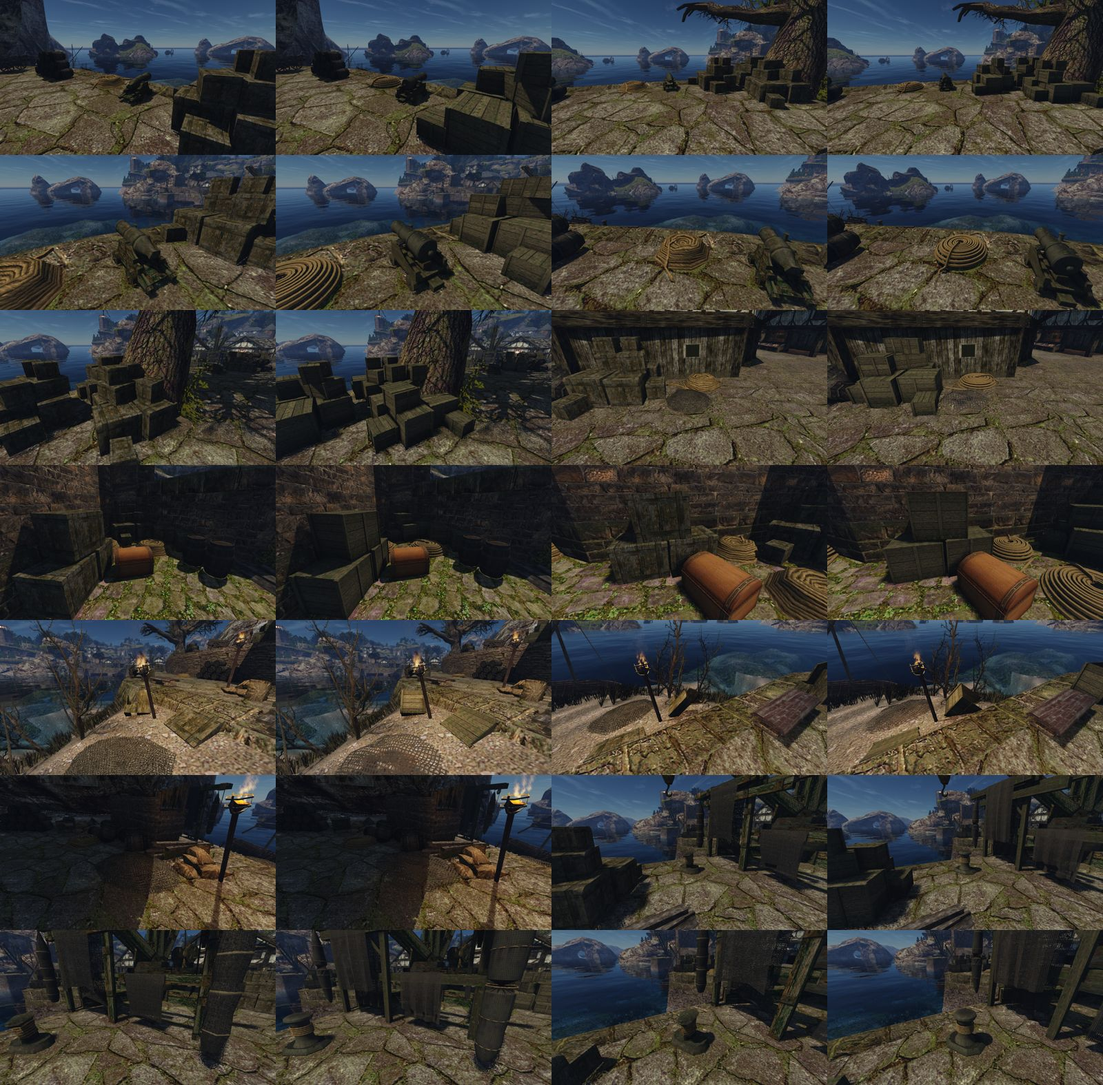
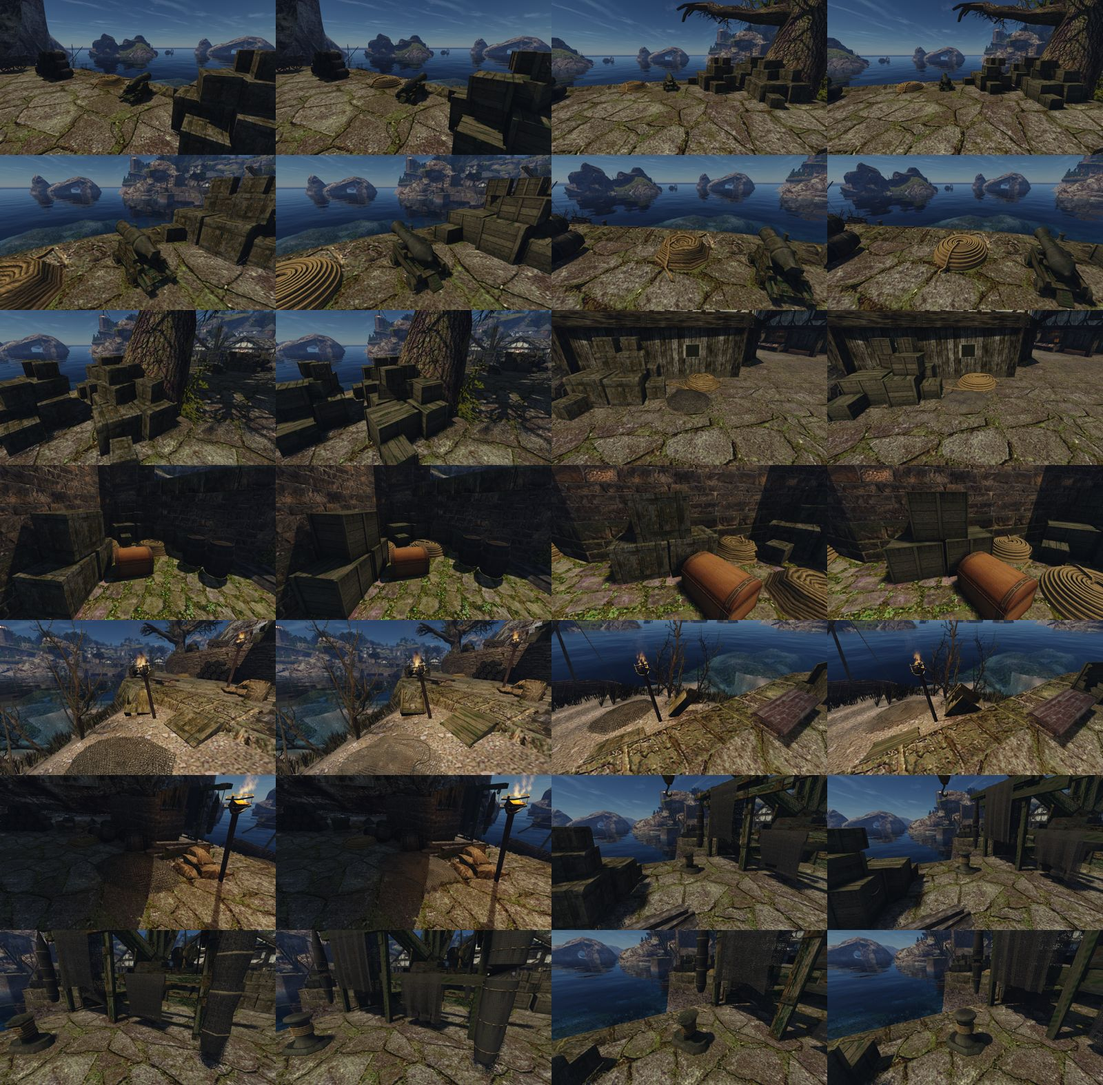
M3 round 3: pile on the original's places, broken crate breach in the end the cameras see, moss along the grain with wet streaks, 4 cm heap net, cannon from the underlay, rack cleats, r6 pairs

diff --git a/scripts/content/mesh3d/blender/crate_broken.py b/scripts/content/mesh3d/blender/crate_broken.py
@@ -10,9 +10,11 @@ config: {"id": "rig-crate-broken", "target": "data/content/mesh3d-rigging.json",
 The same crate as harbour_crate.py (reports/content/2026-10-crates-redesign, variant 2): corner posts
 and a rope handle on each short end, horizontal planks of uneven width with one upright batten on
 the long sides. Broken as the original (asset harbour-rigging, intent.md): no lid; with "side_v" (m, its width at the
-top) the -y long wall has a V breach centred at side_break[0], down to side_break[1] of the height: in the
-harbour that wall faces the player (vob 26082 lies tilted), the review of 2026-10-30 found a breach in the
-end unseen. The +x end may have a V breach too, notch[0] wide at the top, down to notch[1] of the height. Optional, off for the harbour set
+top) the "side_wall" long wall (-1: -y, 1: +y) has a V breach centred at side_break[0], down to side_break[1] of the height: in the
+harbour the +y wall faces the player (vob 26082 lies tilted), the review of 2026-10-30 found a breach in the
+end unseen. The "notch_end" end (1: +x, -1: -x) may have a V breach, notch[0] wide at the top, down to notch[1] of the
+height. In the harbour the camera of the fishers' corner sees the -x end (third review, 2026-10-30), so the
+V is there and the walls are whole. Optional, off for the harbour set
 after the first review (one wall broken, not three): the -y long side broken off above side_break[1] of
 the height for x > side_break[0]; the middle floor plank broken through over floor_hole (x from, x to,
 metres); the -y floor plank without its last floor_corner metres. "rope_ends": "none" drops the handle. Each
@@ -116,7 +118,8 @@ wall_top = H - 0.006   # no lid: the walls run up to the posts' tops less a hair
 
 # --- long sides: horizontal planks between the posts, an upright batten; -y broken at the top right ---
 sb_x, sb_h = cfg.get("side_break", [0.2, 0.74])
-side_v = cfg.get("side_v", 0.0)      # with a width: the -y wall has a V breach centred at x = sb_x instead
+side_v = cfg.get("side_v", 0.0)      # with a width: the side_wall wall has a V breach centred at x = sb_x instead
+side_wall = cfg.get("side_wall", -1)  # which long wall: -1 (-y) or 1 (+y)
 mid_x = -0.12 * L
 for s in (-1, 1):
     n_w = Y * s
@@ -128,7 +131,7 @@ for s in (-1, 1):
         centre = at(0, s * depth, z + w / 2)
         v0 = sb_h * wall_top
         half = side_v / 2 * (z + w / 2 - v0) / (wall_top - v0) * rng.uniform(0.85, 1.15) if side_v else 0.0
-        if s == -1 and half > 0.04:                    # a V breach in the -y wall, wider at the top
+        if s == side_wall and half > 0.04:             # a V breach in that wall, wider at the top
             plank_span(-x_end, sb_x - half, centre, along, Z, n_w, w, broken_end=1)
             plank_span(sb_x + half * rng.uniform(0.8, 1.2), x_end, centre, along, Z, n_w, w, broken_end=0)
         elif s == -1 and z > sb_h * wall_top - 0.02 and not side_v:     # broken off on the right
@@ -137,15 +140,16 @@ for s in (-1, 1):
         else:
             plank_span(-x_end, x_end, centre, along, Z, n_w, w)
         for xe in (-x_end + 0.035, x_end - 0.035):
-            if not (s == -1 and z > sb_h * wall_top - 0.02 and (xe > 0 or side_v)):
+            if not (s == (side_wall if side_v else -1) and z > sb_h * wall_top - 0.02 and (xe > 0 or side_v)):
                 nail(at(xe, s * y_side, z + w / 2), n_w, X)
         z += w + (gaps[k] if k < len(gaps) else 0)
-    top = sb_h * wall_top - 0.03 if (s == -1 and side_v) else wall_top - 0.02   # the batten stops under the breach
+    top = sb_h * wall_top - 0.03 if (s == side_wall and side_v) else wall_top - 0.02   # the batten stops under the breach
     P.wood(at(mid_x, s * (W / 2 - bat_t / 2), top / 2 + 0.01), turned(Z, n_w), X, n_w,
            top, bat_w * rng.uniform(0.9, 1.1), bat_t, BRACE, tile)
 
 # --- short ends: planks behind two corner posts; +x has a U breach in the middle, -x a rope handle ---
 nw_, nh_ = cfg.get("notch", [0.4, 0.34])
+notch_end = cfg.get("notch_end", 1)   # which end has the V: 1 (+x) or -1 (-x)
 for e in (-1, 1):
     n_w = X * e
     widths, gaps = _widths(rng, wall_top, gap, target)
@@ -158,7 +162,7 @@ for e in (-1, 1):
         centre = at(e * depth, 0, z + w / 2)
         v0 = nh_ * wall_top
         half = nw_ / 2 * (z + w / 2 - v0) / (wall_top - v0) * rng.uniform(0.85, 1.15)   # a V: wider at the top
-        if e == 1 and half > 0.04:
+        if e == notch_end and half > 0.04:
             plank_span(-span, off - half, centre, along, Z, n_w, w, broken_end=1)
             plank_span(off + half * rng.uniform(0.8, 1.2), span, centre, along, Z, n_w, w, broken_end=0)
         else:
@@ -169,7 +173,7 @@ for e in (-1, 1):
         P.wood(at(e * (L / 2 - post_t / 2), s * (W / 2 - pw / 2), wall_top / 2), turned(Z, n_w), Y, n_w, wall_top, pw, post_t, BRACE, tile)
         for f in (0.15, 0.5, 0.85):
             nail(at(e * (L / 2), s * (W / 2 - pw / 2), wall_top * f), n_w, Y)
-    if e == -1 and cfg.get("rope_ends", "one") != "none":
+    if e == -notch_end and cfg.get("rope_ends", "one") != "none":
         _rope(P, ROPE, lambda x, y, z: at(x, y, z), e, x_end, W, wall_top, cfg)
 
 # --- floor: planks along the length lying inside; the middle one broken through, a corner missing ---

diff --git a/scripts/content/mesh3d/rigging_set.py b/scripts/content/mesh3d/rigging_set.py
@@ -56,10 +56,10 @@ ITEMS = {
                          atlas='bollard-rope-atlas.json'),
     'bollard': dict(visual='NW_HARBOUR_IRONROPEHOLDER_01', script='bollard.py', cfg='bollard.json', atlas='bollard-atlas.json'),
     'net-big': dict(visual='NW_HARBOUR_FISHINGNETBIG', script='net_heap.py', cfg='net-big.json', atlas=None,
-                    tiled={'OWN_PROP_NET': ['OWN_NETBIG_HARBOUR_NET', 'own_prop_net', [0.036, 0.029, 0.019]],
+                    tiled={'OWN_PROP_NET': ['OWN_NETBIG_HARBOUR_NET', 'own_prop_net', [0.075, 0.06, 0.036]],
                            'OWN_PROP_ROPE': ['OWN_NETBIG_HARBOUR_ROPE', 'own_prop_rope', [0.045, 0.036, 0.024]]}),
     'net-small': dict(visual='NW_HARBOUR_FISHINGNETSMALL', script='net_heap.py', cfg='net-small.json', atlas=None,
-                      tiled={'OWN_PROP_NET': ['OWN_NETSMALL_HARBOUR_NET', 'own_prop_net', [0.036, 0.029, 0.019]],
+                      tiled={'OWN_PROP_NET': ['OWN_NETSMALL_HARBOUR_NET', 'own_prop_net', [0.075, 0.06, 0.036]],
                              'OWN_PROP_ROPE': ['OWN_NETSMALL_HARBOUR_ROPE', 'own_prop_rope', [0.045, 0.036, 0.024]]}),
     'net-rack': dict(visual='NW_HARBOUR_FISHINGNET_01', script='net_rack.py', cfg='net-rack.json', atlas='net-rack-atlas.json',
                      tiled={'OWN_PROP_NET': ['OWN_NETRACK_HARBOUR_NET', 'own_prop_net_fine', [0.032, 0.027, 0.018]]}, extra_glb='nets.glb'),

diff --git a/scripts/content/mesh3d/net_tiles.py b/scripts/content/mesh3d/net_tiles.py
@@ -29,8 +29,8 @@ from scipy import ndimage
 
 TILE_M = 0.5
 CELLS = 12
-CORD_M = 0.015
-KNOT_M = 0.024
+CORD_M = 0.011
+KNOT_M = 0.019
 FINE = dict(cells=17, cord_m=0.009, knot_m=0.015, jitter=0.22)     # the dense net hung on the rack: 3 cm meshes
 NET_TARGET = np.array([0.090, 0.073, 0.044])     # linear RGB of the original net's opaque texels
 ROLL_CORE = np.array([0.012, 0.010, 0.007])
@@ -149,7 +149,7 @@ def main() -> int:
         alpha = (mask >= 0.5).astype(np.float32)
         # fibre noise along the cords, a little lighter on the tops, darker in the twist grooves
         fibre = ndimage.gaussian_filter(rng.normal(0, 1, height.shape), 1.2, mode='wrap')
-        tone = (0.62 + 0.38 * twist) * (0.7 + 0.3 * height) * (1 + 0.12 * fibre)
+        tone = (0.4 + 0.6 * twist) * (0.3 + 0.7 * height ** 0.8) * (1 + 0.12 * fibre)   # crisp strands, dark edges
         tone *= ndimage.zoom(rng.uniform(0.85, 1.15, (6, 6)), args.size / 6, order=1, mode='grid-wrap')
         colour = tone[..., None] * np.array([1.0, 0.86, 0.6])[None, None]
         opaque = alpha > 0.5

diff --git a/reports/content/remaster/harbour-rigging/README.md b/reports/content/remaster/harbour-rigging/README.md
@@ -4,20 +4,20 @@
 
 ## Что сделано
 
-Девять визуалов порта, которые носят текстуры строки 10, — свои модели в Blender, по одной на визуал. Подмена — по имени визуала (`meshes/meshes.json`). Набор `rigging-7`; для съёмки и замера — `harbour-rigging-7`: части `lightfix-1` и `rigging-7`, все прочие файлы побайтно как в `lightfix-1`.
+Девять визуалов порта, которые носят текстуры строки 10, — свои модели в Blender, по одной на визуал. Подмена — по имени визуала (`meshes/meshes.json`). Набор `rigging-12`; для съёмки — `harbour-rigging-12`: части `lightfix-1` и `rigging-12`, все прочие файлы побайтно как в `lightfix-1`.
 
 | Визуал | Предмет | Треуг. оригинал → наш (бюджет) | Атлас |
 |---|---|---|---|
 | `NW_HARBOUR_CRATE_01` | ящик (замысел 2026-10-21) | 12 → 558 (1 500) | 2048 |
 | `NW_HARBOUR_CRATEPILE_01` | куча ящиков (замысел 2026-10-21) | 135 → 3 380 (6 000) | 2048 |
-| `NW_HARBOUR_CRATEBROKEN_01` | разбитый ящик | 152 → 588 (2 500) | 2048 |
-| `NW_HARBOUR_ROPE_01` | бухта каната | 177 → 3 636 (4 000) | 2048 |
-| `NW_HARBOUR_CANON_01` | пушка на лафете | 382 → 1 468 (3 500) | 2048 |
+| `NW_HARBOUR_CRATEBROKEN_01` | разбитый ящик | 152 → 580 (2 500) | 2048 |
+| `NW_HARBOUR_ROPE_01` | бухта каната | 177 → 4 030 (4 200) | 2048 |
+| `NW_HARBOUR_CANON_01` | пушка на лафете | 382 → 1 460 (3 500) | 2048 |
 | `NW_HARBOUR_IRONROPEHOLDER_WROPE_01` | кнехт с канатом | 162 → 1 804 (2 000) | 1024 |
 | `NW_HARBOUR_IRONROPEHOLDER_01` | кнехт | 98 → 488 (1 200) | 1024 |
-| `NW_HARBOUR_FISHINGNETBIG` | ворох сети | 62 → 2 204 (3 000) | плитка сети |
-| `NW_HARBOUR_FISHINGNETSMALL` | ворох сети, малый | 62 → 1 192 (2 000) | плитка сети |
-| `NW_HARBOUR_FISHINGNET_01` | стойка для сетей | 1 030 → 5 498 + 3 360 сети (9 000) | 2048 + плитка сети |
+| `NW_HARBOUR_FISHINGNETBIG` | ворох сети | 62 → 2 200 (3 600) | плитка сети |
+| `NW_HARBOUR_FISHINGNETSMALL` | ворох сети, малый | 62 → 1 052 (2 400) | плитка сети |
+| `NW_HARBOUR_FISHINGNET_01` | стойка для сетей | 1 030 → 5 990 + 3 360 сети (9 000) | 2048 + плитка сети |
 
 ![Концепты image_gen: выбранные — в рамке](concepts.jpg)
 
@@ -45,7 +45,7 @@
 
 ![Рабочий набор lightfix-1 | наше, 14 ракурсов](vs-working.jpg)
 
-В каждой паре слева `lightfix-1`, справа `harbour-rigging-7`. Кадры полдня, обычный FOV, NPC скрыты. Сценарий — [`harbour-rigging.bench`](../../../../scripts/content/harbour-rigging.bench) из [cameras.json](cameras.json), съёмка через `gq` на Ryzen.
+В каждой паре слева `lightfix-1`, справа `harbour-rigging-12`. Кадры полдня, обычный FOV, NPC скрыты. Сценарий — [`harbour-rigging.bench`](../../../../scripts/content/harbour-rigging.bench) из [cameras.json](cameras.json), съёмка через `gq` на Ryzen.
 
 Четыре круга подгонки по замерам кадров, линейный RGB граней:
 1. **Ворохи сети почти не видны.** Редкая сеть (38 %) светлее песка под ней. Сеть сделана плотнее: ячейка 6 см, верёвка 2 см, 57 %, три слоя. Цвет непрозрачных текселей — 0,036 / 0,029 / 0,019. В кадре `fishers-mid` ворох был на 47 % светлее оригинала, стал на 19 %.
@@ -84,9 +84,30 @@
   - брус стойки — 20 %.
 - **Тон ящиков.** Оливково-бурый: цель 0,054 / 0,043 / 0,019, контраст 1,6, без выгорания. Насыщенность освещённых граней в кадре 0,30–0,37 при 0,29–0,38 у оригинала. Зелёного на ящиках `pile-close` — 4,6 % против 0,2 % у `lightfix-1` на том же участке.
 
+## Третий круг: после второй приёмки
+
+Вторая приёмка (`r5-*`, 27 из 28 вердиктов): PASS у `pile-close/o1`, `crates-path/o2`, `quay-wide/o1`. Кнехт прошёл везде, бухта вблизи — в обоих порядках. Что изменено:
+- **Куча ящиков** — на местах и размерах ящиков оригинала, без отражения: отражённая раскладка уводила ящики с мест, где их видит игрок. Это две кучи `CRATEPILE`, у хижины и у пушки. Перед ворохом сети ящиков нет. Высокая часть кучи теперь там же, где у оригинала, а не справа, как в концепте 2026-10-21.
+- **Разбитый ящик.** Ящик 26082 в мире лежит наклонно, и обе камеры рыбацкого угла видят его торец −X. V-пролом перенесён туда: шире кверху, до 22 % высоты. Стенки и дно целые. Тон на четверть темнее.
+- **Мох** — полосами вдоль волокна каждой детали (ключ `grain`: шум вытянут в 4–5 раз вдоль оси детали по её текселям), с тягой к щелям и тени. Цвет темнее и оливковее. Добавлены тёмные мокрые потёки (`streaks`) и грязь в щелях между досками (`crevice`, тёмная, 3,5 см). Доля в атласе: ящики 16 %, лафет 14 %, ствол 4 %, брус стойки 50 %. Замер зелёного в кадре, оттенок 0,17–0,45, насыщенность выше 0,25 (у рецензентов участки и пороги другие, поэтому их проценты с этими не совпадают):
+
+  | Участок | `lightfix-1` | наше |
+  |---|---:|---:|
+  | куча вблизи | 0,2 % | 5,9 % |
+  | кучи издалека | 0,9 % | 2,3 % |
+  | лафет | 2,4 % | 2,6 % |
+  | передняя балка стойки | 12,4 % | 12,0 % |
+  | верхние балки стойки | 20,0 % | 23,6 % |
+- **Ворох сети** — ячейка 4 см по оригиналу, четыре слоя, в середине плотнее.
+- **Бухта.** Под витками сердечник в канате, поэтому в уступах нет просветов. Хвосты лежат на земле. Шаг витков прежний: вблизи бухта прошла.
+- **Пушка** — по подложке: ось ствола 6,5° у оригинала, у нас 9° на виде сбоку. Казна — конус от шишки к телу. Ствол тоньше: 0,21 против 0,255. Станина с одним большим уступом, сзади длинный клиновой хвост. Мох полосами и потёки.
+- **Стойка.** Подкосы заменены накладками на стойках. Брус без светлых кромок и с меньшим контрастом. Полотна с провисом посередине. Мелкая сеть неровнее (смещение узлов 0,22 ячейки, верёвки с провисом). Скатки на 16 гранях, с закруглённым низом.
+- **Не сделано: наклон верхнего ящика в `crate-close`.** У vob 20956 в `vobs.json` чистый поворот вокруг вертикали, наклона нет, меш оригинала — ровный куб. Наклон модели наклонил бы все 105 ящиков.
+- **Съёмка.** После слияния `main` движок съёмки пересобран. База на Ryzen выбрана явно (`OPENGOTHIC_BASE_FINGERPRINT=3436f2…`, её отдаёт `content-convert resolve-base`): отпечаток в `game-base.json` указывает на базу старого формата. Кадры `lightfix-1` на новом движке побайтно совпали со старыми.
+
 ## Приёмка
 
-Пакеты слепых пар `lightfix-1 | наше`, порядки `order-1` и `order-2`; рецензентов пускает ведущая сессия. Пакеты лежат вне git, в `~/.local/share/gothic-ai/remaster/harbour-rigging/reviews/`. Второй круг — `r5-*` на `harbour-rigging-7`, ракурсы те же, что у `r3-*` (первый круг, `harbour-rigging-5`):
+Пакеты слепых пар `lightfix-1 | наше`, порядки `order-1` и `order-2`; рецензентов пускает ведущая сессия. Пакеты лежат вне git, в `~/.local/share/gothic-ai/remaster/harbour-rigging/reviews/`. Третий круг — `r6-*` на `harbour-rigging-12`; второй — `r5-*` на `harbour-rigging-7`; первый — `r3-*` на `harbour-rigging-5`. Ракурсы те же:
 
 | Пара | Что в кадре |
 |---|---|
@@ -106,5 +127,6 @@
 ## Известные остатки
 
 - **Атлас стойки** покрывает около 22 % квадрата 2048 при размахе 9 м: вблизи брус мягче досок ящиков.
+- **Сеть вороха** издалека читается мягче оригинала, ближе к полотну: слои накладываются, ячейка 4 см на плитке 0,5 м размывается мипами.
 - **Сеть двусторонняя дублем граней:** движок не читает `doubleSided` у своих GLB. Это +100 % треугольников сети, у стойки 3 360 из 8 858.
-- **Треугольники.** Ц1 итогового набора на порту, `lightfix-1 → harbour-rigging-7`: Δ p95 +1,00 %, Δ p50 +0,03 %, вердикт «в шуме»; вызовов отрисовки столько же (83,1). Треугольников на кадр +304 тыс. (+24 %): место замера — грузовая дорожка порта, где стоят кучи ящиков, бухты и ящики ([отчёт](../../../performance/2026-10-30-content-cost/lightfix-1-vs-harbour-rigging-7/report.md)). Первый круг (`harbour-rigging-5`): Δ p95 +2,75 %, «в пороге», +328 тыс. ([отчёт](../../../performance/2026-10-30-content-cost/lightfix-1-vs-harbour-rigging-5/report.md)).
+- **Треугольники.** Ц1 на порту, `lightfix-1 → harbour-rigging-7`: Δ p95 +1,00 %, Δ p50 +0,03 %, вердикт «в шуме»; вызовов отрисовки столько же (83,1). Треугольников на кадр +304 тыс. (+24 %): место замера — грузовая дорожка порта, где стоят кучи ящиков, бухты и ящики ([отчёт](../../../performance/2026-10-30-content-cost/lightfix-1-vs-harbour-rigging-7/report.md)). Первый круг (`harbour-rigging-5`): Δ p95 +2,75 %, «в пороге», +328 тыс. ([отчёт](../../../performance/2026-10-30-content-cost/lightfix-1-vs-harbour-rigging-5/report.md)). Третий круг геометрию почти не меняет (бухта +394 треугольника, стойка +500 на копию), Ц1 не переснимался.

diff --git a/reports/content/remaster/harbour-rigging/intent.md b/reports/content/remaster/harbour-rigging/intent.md
@@ -53,12 +53,8 @@
 У каждого предмета своя.
 
 - **Ящик** — дощатый короб с брусками по граням; рамка и доски нарисованы. Замысел ящика принят пользователем 2026-10-21, вариант 2: стойки на торцах и верёвочные ручки ([ящики порта](../../2026-10-crates-redesign/README.md)).
-- **Куча ящиков** — груда из 10 ящиков трёх размеров (около 1,1, 0,85 и 0,6 м) в три яруса: шесть на земле, два во втором, два наверху. Ящики сдвинуты и повёрнуты, груда заполняет всё пятно 3,1 × 2,9 м, верх 2,1 м.
-- **Разбитый ящик** — ящик того же размера:
-  - без крышки, внутри видны стенки и дно;
-  - в одном торце середина выломана U-образным проломом до трети высоты, шириной около 0,4 м;
-  - одна длинная стенка обломана сверху на четверть высоты на трети длины;
-  - в дне продольный пролом около 0,6 × 0,2 м, у одного угла дна нет конца доски.
+- **Куча ящиков** — груда из 10 ящиков трёх размеров (около 1,1, 0,85 и 0,6 м) в три яруса: шесть на земле, два во втором, два наверху — на местах ящиков оригинала. Ящики сдвинуты и повёрнуты, груда заполняет всё пятно 3,1 × 2,9 м, верх 2,1 м. Где у оригинала стоит ящик, там стоит и наш.
+- **Разбитый ящик** — ящик того же размера, без крышки, внутри видны стенки и дно. Торец, который в порту смотрит на игрока, выломан V-образным проломом с рваным краем досок. У оригинала пролом U-образный, до трети высоты; у него же обломан верх длинной стенки и проломлено дно. У нас сломана одна стенка — та, что видна с обычного ракурса.
 - **Бухта каната** — холм из уложенных витков толстого каната: ⌀ 1,8–1,9 м, высота 0,47 м, то есть около четверти поперечника; склоны ступенями витков, верх плоский примерно на половину поперечника. Бухта сдвинута к одному концу габарита, длинный конец уходит хвостом по земле на 0,75 м, короткий — на 0,25 м в другую сторону. Канат светлее всего вокруг: охра, среднее в кадре `#4C3D25`, светлое `#7C613A`.
 - **Пушка** — тёмный чугунный ствол около 1,55 м:
   - восьмигранный, сужается к дулу, у дула раструб;

diff --git a/docs/world-detail-plan.md b/docs/world-detail-plan.md
@@ -207,6 +207,17 @@
 
 ## План и журнал
 
+**2026-10-30 — М3: третий круг.** Вторая приёмка: PASS у трёх вердиктов из 27, кнехт прошёл везде, бухта вблизи — в обоих порядках. Сделано:
+- куча на местах ящиков оригинала без отражения (отражённая уводила ящики, которые видит игрок);
+- V-пролом разбитого ящика в торце, который видят камеры (ящик в мире лежит наклонно);
+- мох полосами вдоль волокна (`grain` в `moss`), мокрые потёки и тёмная грязь в щелях;
+- ячейка вороха 4 см;
+- сердечник под витками бухты;
+- пушка по подложке: казна конусом, ствол тоньше, станина с одним уступом и клиновым хвостом;
+- накладки вместо подкосов на стойке.
+
+После слияния `main` движок съёмки пересобран, база на Ryzen выбрана явно (`3436f2…`): отпечаток в `game-base.json` указывает на базу старого формата. Набор `rigging-12`, пары `r6-*`.
+
 **2026-10-30 — М3: второй круг после приёмки.** Первая приёмка вернула ящики, кучу, разбитый ящик, бухту, ворох и стойку; пушка и кнехт по форме прошли. Сделано:
 - лист замысла сверен с кадрами (бухта и ворох — холмы; дефолт 14);
 - куча — десять ящиков трёх размеров на местах оригинала по подложке;
